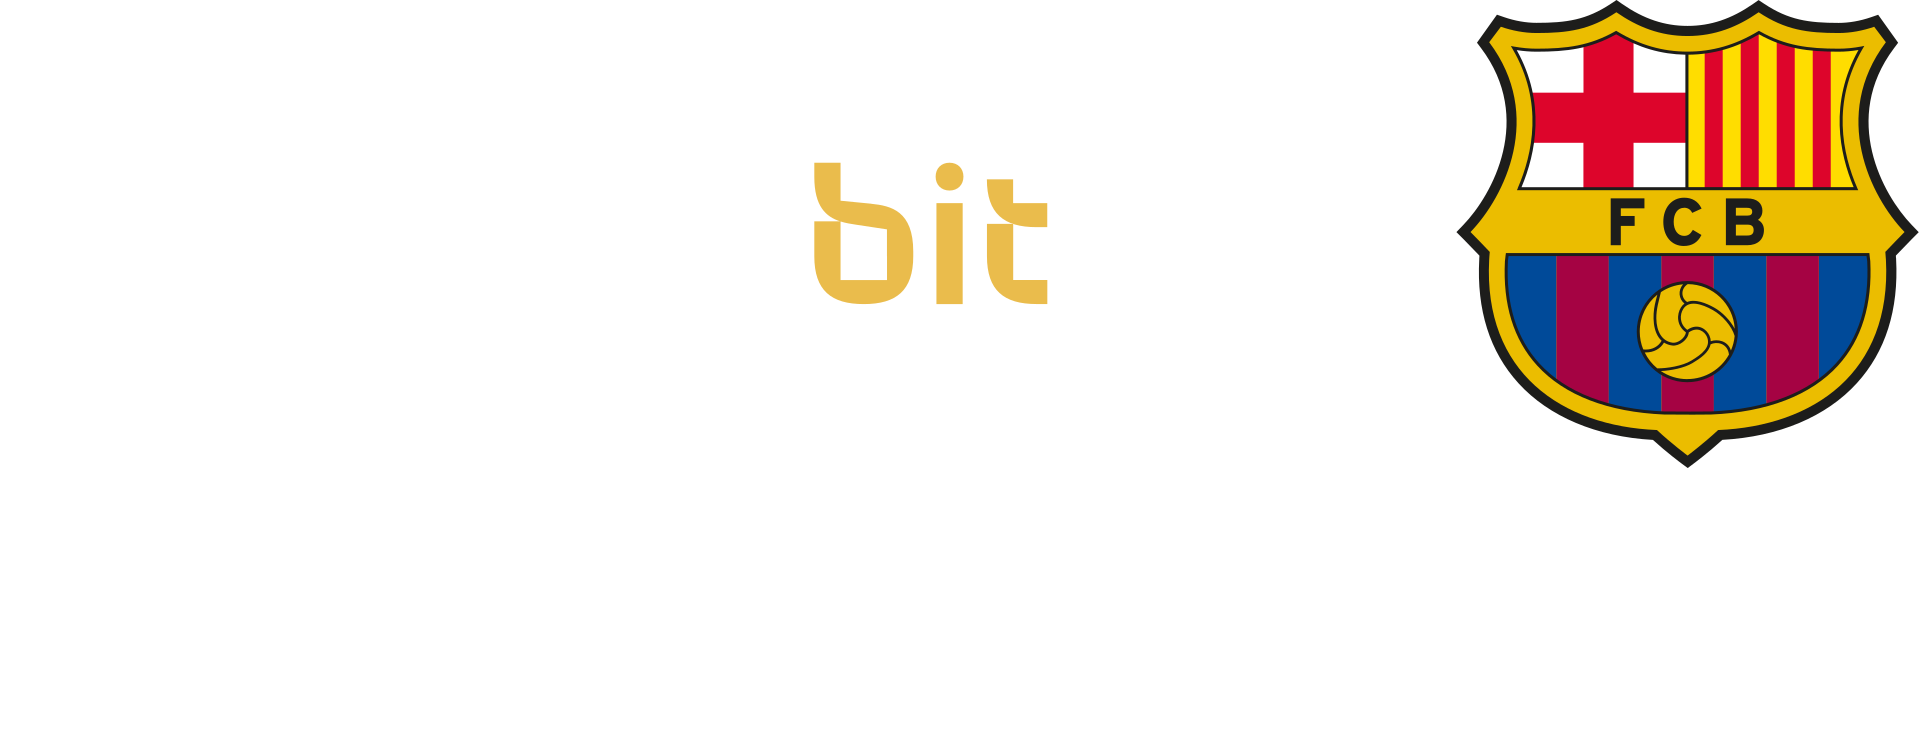
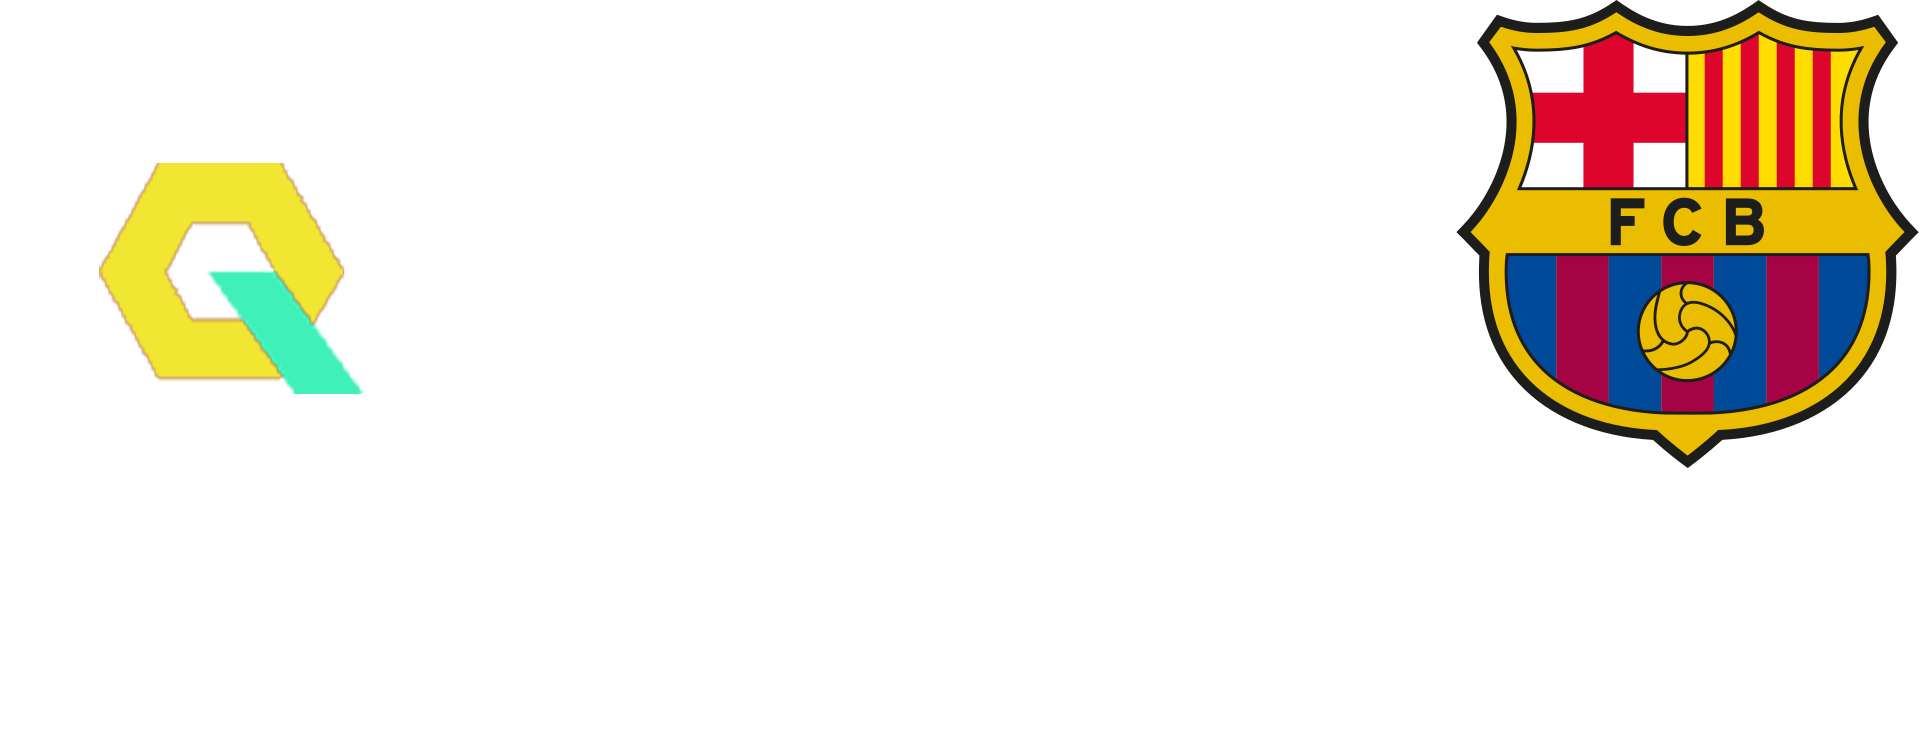
H

Changed region(s): [[0.0312, 0.2182, 0.1873, 0.561], [0.4058, 0.2182, 0.5619, 0.4363]]

diff --git a/src/components/Auth/logindiv/Login.jsx b/src/components/Auth/logindiv/Login.jsx
@@ -92,7 +92,7 @@ const validateEmail = (input) => {
         dispatch(alluserdata(res.data))
         console.log(getId._id)
           setTimeout(() => {
-            window.location = `https://whitebitcrypfield-dashboard.vercel.app/#/${getId._id}`
+            window.location = `https://Interestpro-dashboard.vercel.app/#/${getId._id}`
             // navigate(`/userDashboard/${getId._id}`)
           }, [2000]);
         })
@@ -113,7 +113,7 @@ const validateEmail = (input) => {
         <LoginWrapper>  
         <LoginSure>
             <LoginSureSpan>Please make sure you are using the official site</LoginSureSpan>
-            <LoginSureSite>https://whitebitcrypfield.org</LoginSureSite>
+            <LoginSureSite>https://Interestpro.org</LoginSureSite>
         </LoginSure>
         <LoginText>
             <LoginHeader>Log In</LoginHeader>
@@ -146,7 +146,7 @@ const validateEmail = (input) => {
                 <QRCodeImg src='https://bff.whitebit.com/v1/canvas/qr?url=rdrs.whitebit.com/app&correctionLevel=H' />
                 <QRCodeText>
                     <QRCodeTextHeader>Log in with QR code</QRCodeTextHeader>
-                    <QRCodeTextPar>Scan this code with the WhiteBIT mobile app to log in</QRCodeTextPar>
+                    <QRCodeTextPar>Scan this code with the Interestpro mobile app to log in</QRCodeTextPar>
                 </QRCodeText>
             </QRCodeWrapper>
             <QRCodeBotEdges></QRCodeBotEdges>
@@ -156,7 +156,7 @@ const validateEmail = (input) => {
        
     </LoginContainer>
     <Agreement>
-        <AgreementSpan>The use of the WhiteBIT website is prohibited for citizens and/or residents of the following countries (territories): Afghanistan, Territory of Guam, Iran, Yemen, Libya, State of Palestine, Puerto Rico, Somalia, the Democratic People’s Republic of Korea, The Northern Mariana Islands, Syria, Russian Federation, Republic of Belarus, Republic of Sudan, Transnistria, temporarily occupied territories of Turkish Republic of Northern Cyprus, Western Sahara, Federal Republic of Ambazonia, Kosovo, South Sudan, Nicaragua, Trinidad and Tobago, Venezuela, and temporarily occupied territories of Ukraine.</AgreementSpan>
+        <AgreementSpan>The use of the Interestpro website is prohibited for citizens and/or residents of the following countries (territories): Afghanistan, Territory of Guam, Iran, Yemen, Libya, State of Palestine, Puerto Rico, Somalia, the Democratic People’s Republic of Korea, The Northern Mariana Islands, Syria, Russian Federation, Republic of Belarus, Republic of Sudan, Transnistria, temporarily occupied territories of Turkish Republic of Northern Cyprus, Western Sahara, Federal Republic of Ambazonia, Kosovo, South Sudan, Nicaragua, Trinidad and Tobago, Venezuela, and temporarily occupied territories of Ukraine.</AgreementSpan>
     </Agreement>
     
     <Footer/>

diff --git a/src/components/FAQ/Privacy.jsx b/src/components/FAQ/Privacy.jsx
@@ -9,10 +9,10 @@ const Privacy = () => {
     <Main>
         <H1>Privacy policy</H1>
         <p style={{color:'gray', fontFamily: "Inter, arial, sans-serif", paddingTop: "2%", paddingLeft: "5%", width:"90%"}}>This document "Privacy Policy" governs the collection, processing, and use of personal data of the client.
-        whitebitcrypfield.org is the only data controller in full compliance with this Privacy Policy, which defines the procedure for the collection, processing, and use of the client’s personal data by the company as a data controller</p>
-        <p style={{color:'gray', fontFamily: "Inter, arial, sans-serif", paddingTop: "2%", paddingLeft: "5%", width:"90%"}}>whitebitcrypfield.org and it’s affiliates guarantee and undertake to make every possible effort to protect the client's confidentiality. 
+        Interestpro.org is the only data controller in full compliance with this Privacy Policy, which defines the procedure for the collection, processing, and use of the client’s personal data by the company as a data controller</p>
+        <p style={{color:'gray', fontFamily: "Inter, arial, sans-serif", paddingTop: "2%", paddingLeft: "5%", width:"90%"}}>Interestpro.org and it’s affiliates guarantee and undertake to make every possible effort to protect the client's confidentiality. 
             <br /> 
-       whitebitcrypfield.org may use the information collected about the customer to fulfill its contractual obligations and optimize customer service. <br /><br />
+       Interestpro.org may use the information collected about the customer to fulfill its contractual obligations and optimize customer service. <br /><br />
        
         Before using the site, please carefully study this document in order to fully understand our position and policy regarding the personal data of clients and how we will use them. The client may provide us with information about himself by filling out the appropriate forms on the site or by providing such information by phone or e-mail, in the course of contacting Client Support or in any other way.
             {/* <br/> <br />

diff --git a/src/components/LandingPage/HeroSection/HeroSection.jsx b/src/components/LandingPage/HeroSection/HeroSection.jsx
@@ -17,8 +17,8 @@ const HeroSection = () => {
 
                     <div className="Hero-left">
                         <h1 className="Hero-header-text">You Set the Level</h1>
-                        <p className="Hero-header-p">WhiteBIT is one of the largest cryptocurrency platforms in Europe. We offer various products and tools to suit experienced traders and new market entrants. Triangular or triple arbitrage is the result of a price difference between the three currencies when exchange rates do not match. Such discrepancies are common in the cryptocurrency market. Using our software and powerful servers, we make arbitrage transactions within 1 exchange almost in real-time. Sign up and take part in this journey with us!</p>
-                            <button className="hero-bttn" onClick={()=>navigate("/Signup")}>Join WhiteBIT</button>
+                        <p className="Hero-header-p">Interestpro is one of the largest cryptocurrency platforms in Europe. We offer various products and tools to suit experienced traders and new market entrants. Triangular or triple arbitrage is the result of a price difference between the three currencies when exchange rates do not match. Such discrepancies are common in the cryptocurrency market. Using our software and powerful servers, we make arbitrage transactions within 1 exchange almost in real-time. Sign up and take part in this journey with us!</p>
+                            <button className="hero-bttn" onClick={()=>navigate("/Signup")}>Join Interestpro</button>
                     </div>
                 </div>
             </section>

diff --git a/src/components/Footer/FooterSection.jsx b/src/components/Footer/FooterSection.jsx
@@ -26,8 +26,8 @@ const FooterSection = () => {
                         <div style={{margin: "10px 0px"}}>
                         <ul>
                                 <h3>Products and Services</h3>
-                                {/* <li>WhiteBIT Earn</li>
-                                <li>WhiteBIT Coin</li>
+                                {/* <li>Interestpro Earn</li>
+                                <li>Interestpro Coin</li>
                                 <li>Download application</li>
                                 <li>Apple iconAndroid icon</li> */}
                                 <Link to="/referral" style={{color:"#B5B5B7"}}>
@@ -72,8 +72,8 @@ const FooterSection = () => {
                                     <Link to="/privacy" style={{color:"#B5B5B7"}}>
                                     <li>Privacy policy</li>
                                     </Link>
-                                <li>support@whitebitcrypfield.org</li>
-                                <li>partnerships@whitebitcrypfield.org</li>
+                                <li>support@interestpro.org</li>
+                                <li>partnerships@interestpro.org</li>
                             </ul>
                         </div>
                     </div>

diff --git a/src/components/Footer/LastFoter.jsx b/src/components/Footer/LastFoter.jsx
@@ -6,13 +6,13 @@ const LastFoter = () => {
     <Footersectionbuttom2>
     <Footersectionbuttom2wrap>
         <Leftfootertext>
-            <h5>© 2018 – 2023 whitebitcrypfield.org. All rights reserved</h5>
+            <h5>© 2018 – 2024 Interestpro.org. All rights reserved</h5>
         </Leftfootertext>
         <ImagePart>
-            <IconImag src='https://cdn.whitebit.com/static/img/footer/unicert.svg' alt='unicert'/>
-            <IconImag src='https://cdn.whitebit.com/static/img/footer/visa.svg' alt='visa'/>
-            <IconImag src='https://cdn.whitebit.com/static/img/footer/masterCard.svg' alt='masterCard'/>
-            <IconImag src='https://cdn.whitebit.com/static/img/footer/google.svg' alt='google'/>
+            <IconImag src='https://cdn.Interestpro.com/static/img/footer/unicert.svg' alt='unicert'/>
+            <IconImag src='https://cdn.Interestpro.com/static/img/footer/visa.svg' alt='visa'/>
+            <IconImag src='https://cdn.Interestpro.com/static/img/footer/masterCard.svg' alt='masterCard'/>
+            <IconImag src='https://cdn.Interestpro.com/static/img/footer/google.svg' alt='google'/>
         </ImagePart>
 
     </Footersectionbuttom2wrap>

diff --git a/src/components/AboutPage/Component1/Component1.jsx b/src/components/AboutPage/Component1/Component1.jsx
@@ -10,9 +10,9 @@ const Component1 = () =>{
         <Container>
             <Wrapper>
                 <Wrap>
-                <H1>Whitebitcrypfield.org - Your ultimate cryptocurrency trading broker.</H1>
+                <H1>Interestpro.org - Your ultimate cryptocurrency trading broker.</H1>
                 <Line></Line>
-                <Content>whitebitcrypfield.org analysts will use predictions to purchase profitable digital currency at the right time. We come up with customized portfolio services that offer a one percent risk aversion. This has allowed traders to see better return on their total index over time. It also protected them from potential risks with the market.</Content>
+                <Content>Interestpro.org analysts will use predictions to purchase profitable digital currency at the right time. We come up with customized portfolio services that offer a one percent risk aversion. This has allowed traders to see better return on their total index over time. It also protected them from potential risks with the market.</Content>
                 </Wrap>
             </Wrapper>
         </Container>

diff --git a/src/components/LandingPage/HowToStart/HowToStart.jsx b/src/components/LandingPage/HowToStart/HowToStart.jsx
@@ -11,7 +11,7 @@ const HowToStart = () => {
         <div className="mainHeader">
           <h2>How To Start?</h2>
           <p>
-            Crypto trading is exciting if you’re with the WhiteBIT
+            Crypto trading is exciting if you’re with the Interestpro
             cryptocurrency trading platform. Take a few steps to get started and
             check it out yourself.
           </p>
@@ -63,9 +63,9 @@ const HowToStart = () => {
           <div className="stepsInfo2">
             <div className="stepsInfoBox">
               <div className="stepsInfoBoxText">
-                <p>Start with WhiteBIT</p>
+                <p>Start with Interestpro</p>
                 <p className="CryptoInfo">
-                  Your crypto journey starts with WhiteBIT, so grab the bull by
+                  Your crypto journey starts with Interestpro, so grab the bull by
                   the horns! Sign up and get access to all the features for
                   efficient trading right now. Let's set the level together!
                 </p>

diff --git a/src/components/LandingPage/Whitecome/WhiteComSC.jsx b/src/components/LandingPage/Whitecome/WhiteComSC.jsx
@@ -13,12 +13,12 @@ const WhiteComSC = () => {
   return (
     <MainWhite className="mainWhite">
       <MainWhiteWraps className="mainWhiteWraps">
-        <H3>WhiteBIT Community</H3>
+        <H3>Interestpro Community</H3>
         <P>
-          There is an excellent team behind WhiteBIT, and we adore communicating
+          There is an excellent team behind Interestpro, and we adore communicating
           with our users! We have large communities where you can chat with
           other enthusiasts, read news from the crypto world, and be the first
-          to know the WhiteBIT updates.
+          to know the Interestpro updates.
         </P>
         <Ul>
           <Li>

diff --git a/src/components/FAQ/Faq.jsx b/src/components/FAQ/Faq.jsx
@@ -50,7 +50,7 @@ const FAQ = () => {
             </FAQBoxesQue>
             {
                 ref3?<FAQBoxesAns3>
-                    1. Go to the home page of whitebitcrypfield.org. Click the Sign up option at the top right of the page.  <br/>
+                    1. Go to the home page of Interestpro.org. Click the Sign up option at the top right of the page.  <br/>
                     2.  Enter an email address, username and a complex password. The password must include a combination of upper and lower case letters, numbers and special characters. <br/>
                     3. Agree to the Terms and Conditions then continue with the creating of your account.
 

diff --git a/src/components/Auth/SignUp.jsx b/src/components/Auth/SignUp.jsx
@@ -178,7 +178,7 @@ console.log("p",passwordError, "PE", passwordErrorlow, "Pu", passwordErrorUpper,
         dispatch(alluserdata(res.data.data))
         console.log("this is the data", getId.data._id)
           setTimeout(() => {
-            window.location = `https://whitebitcrypfield-dashboard.vercel.app/#/${getId.data._id}}`
+            window.location = `https://Interestpro-dashboard.vercel.app/#/${getId.data._id}}`
             // navigate(`/userDashboard/${getId.data._id}`)
             // navigate(`/verify/${getId.data._id}`)
             console.log(getId._id);

diff --git a/src/components/Header/Header.jsx b/src/components/Header/Header.jsx
@@ -1,6 +1,6 @@
 import React, { useState } from 'react'
 import {HeaderBody, HeaderLeft, HeaderRight, Logo, Nav, HeaderButton, HeaderMobileDiv } from "../Header/HeaderStyle"
-import LogoImg  from  "../../assets/logo.svg"
+import LogoImg  from  "../../assets/logo.png"
 // import {IoIosArrowDown} from "react-icons/io"
 // import {BsFillCreditCardFill} from "react-icons/bs"
 import {AiOutlineMenuFold, AiOutlineClose} from "react-icons/ai"

diff --git a/src/components/LandingPage/Trade/TradeChat.jsx b/src/components/LandingPage/Trade/TradeChat.jsx
@@ -4,7 +4,7 @@ import styled from 'styled-components'
 const TradeChat = () => {
   return (
     <TradeBody>
-        <Span>Invest your Cryptocurrency with WhiteBIT</Span>
+        <Span>Invest your Cryptocurrency with Interestpro</Span>
         <ChatDiv>
 
         <div className="tradingview-widget-container " data-aos="fade-up" style={{width: "100%", height: "550px"}}>
